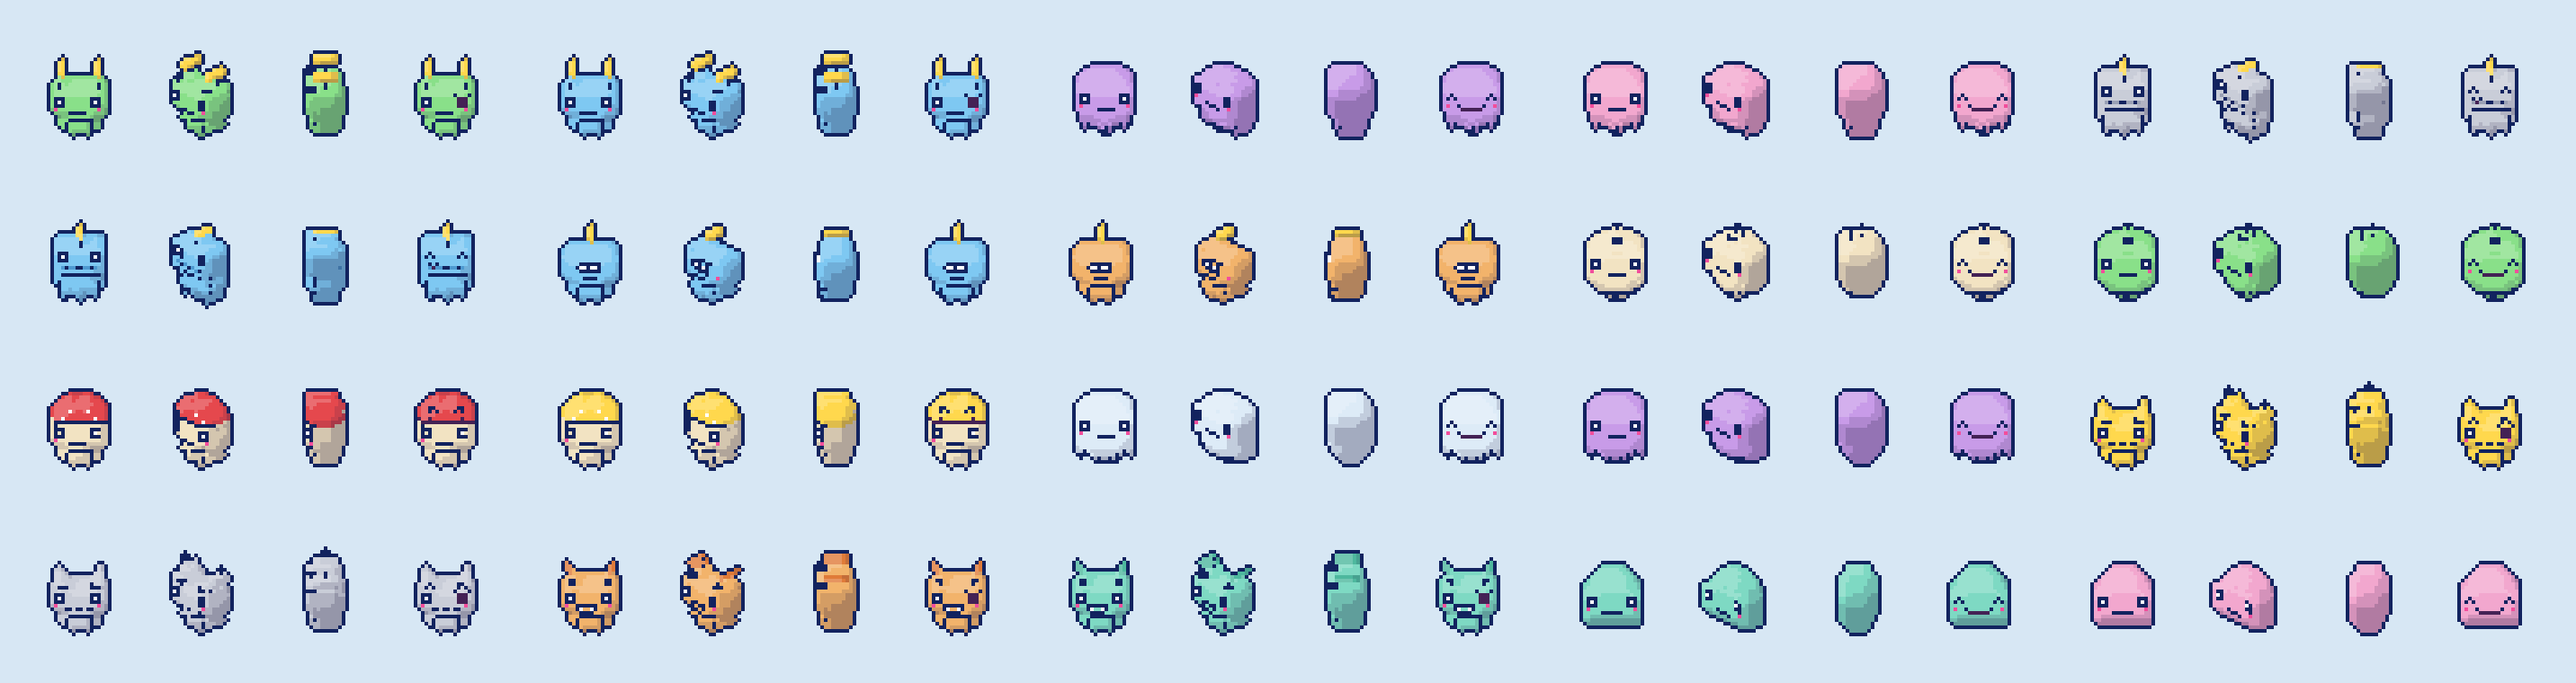
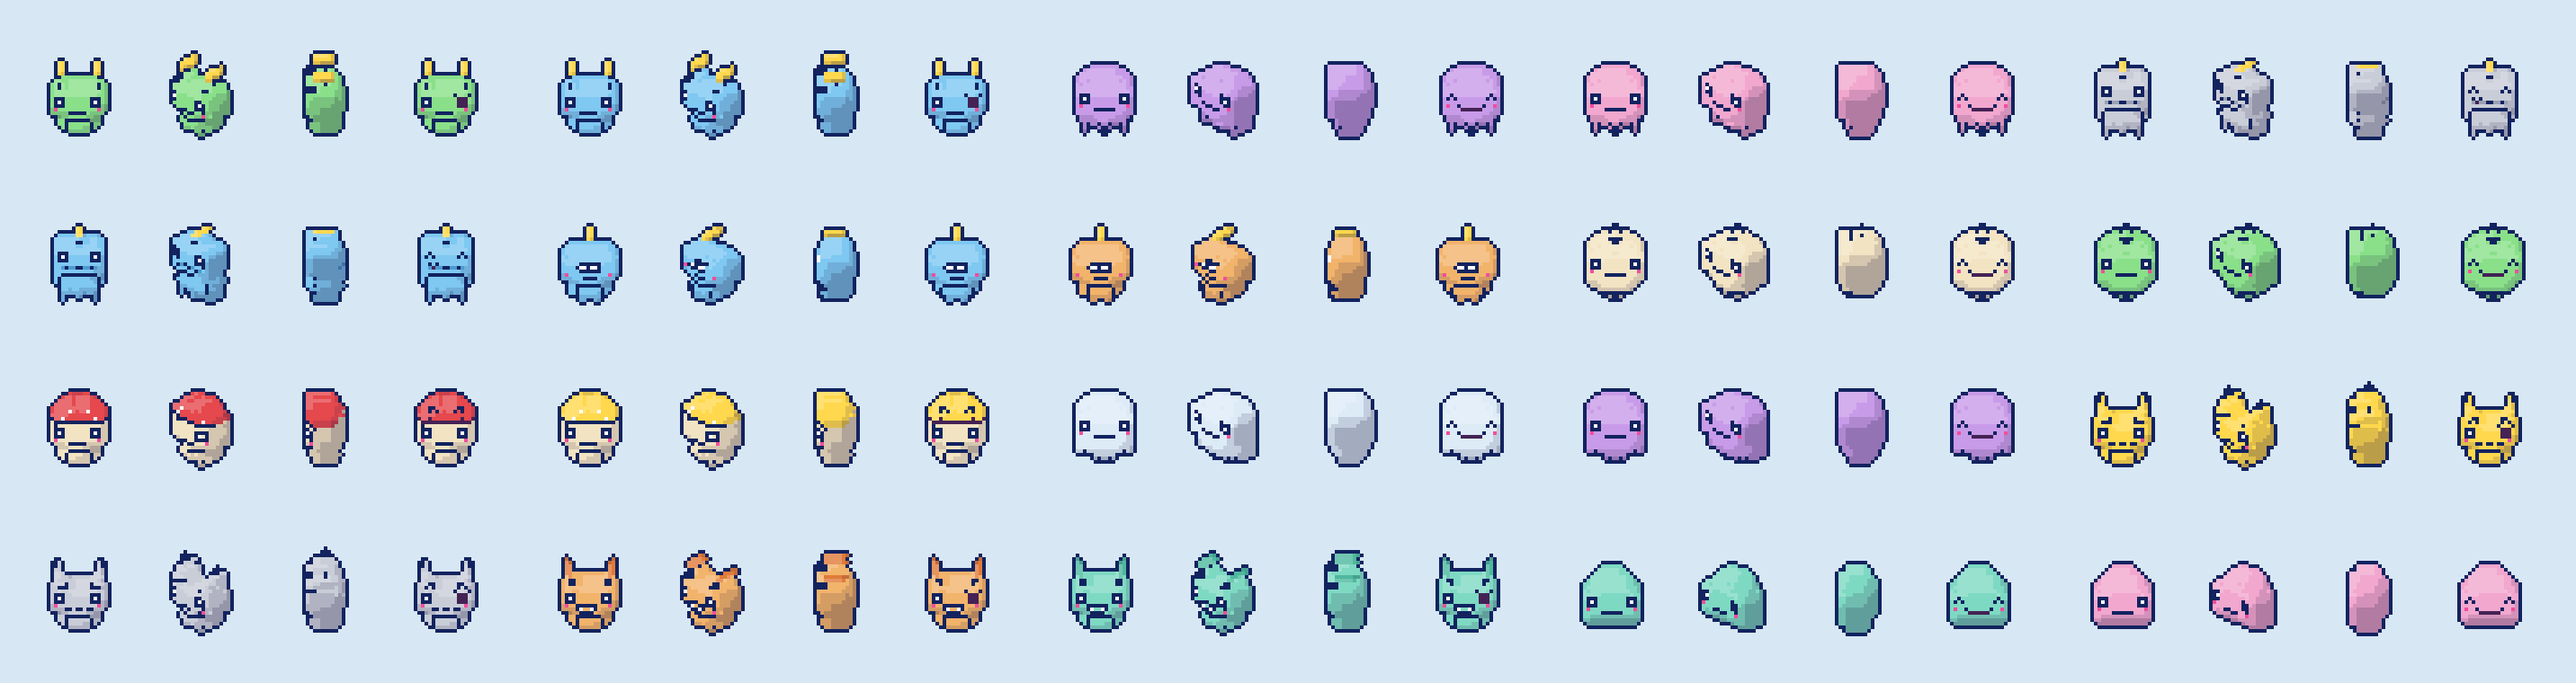
スプライトスタッキング: 正面で2ドット以上の幅の顔パーツの左の列が消えるくせを直す
回すときの出力の幅の偶奇を元の層とそろえ、正面・横で画素の中心を拾うようにした（ずれていると角を拾い、ドット補正で丸めた角に当たっていた）。
全キャラ（宇宙人・アバター・NPC）の絵が少し変わる（オーナー了承済み）。回帰テストと一覧シートの作り直しつき。

diff --git a/src/lib/stack/stack.test.ts b/src/lib/stack/stack.test.ts
@@ -109,3 +109,29 @@ describe("2Dの文字マップから起こす", () => {
     expect(v.front(5, 3)).toBeGreaterThan(v.front(2, 3));
   });
 });
+
+describe("正面の顔パーツ", () => {
+  it("2ドット幅の目が、正面で2ドットのまま出る（左の列が体の色に消えない）", () => {
+    const rows = [
+      "..kkkkkkkk..",
+      ".kyyyyyyyyk.",
+      "kyyyyyyyyyyk",
+      "kyykkyykkyyk",
+      "kyykkyykkyyk",
+      "kyyyyyyyyyyk",
+      ".kyyyyyyyyk.",
+      "..kkkkkkkk..",
+    ];
+    const v = charMapToVox(rows, { colors: { y: 1, k: 4 }, outline: "k" });
+    const m = prepareModel(v, [null, "#ffd84d", null, null, "#12235f"], { legs: false });
+    const f = renderStack(modelStack(m), { dir: 0, line: null });
+    const ink = packRgba(hexToRgb("#12235f"));
+    let best = 0;
+    for (let y = 0; y < f.h; y++) {
+      let n = 0;
+      for (let x = 0; x < f.w; x++) if (f.px[y * f.w + x] === ink) n++;
+      best = Math.max(best, n);
+    }
+    expect(best).toBe(4);
+  });
+});

diff --git a/src/lib/stack/render.ts b/src/lib/stack/render.ts
@@ -127,7 +127,9 @@ export function rotSlice(src: Uint32Array, lw: number, ld: number, ang: number, 
     sh *= 2;
   }
   const R = Math.hypot(lw, ld) / 2 + 1;
-  const W = Math.ceil(2 * R) | 1,
+  // 幅の偶奇を元の層とそろえ、正面・横（0°・90°…）で出力の画素の中心が元の画素の中心に乗るようにする。
+  // ずれていると元の画素の「角」を拾い、ドット補正で丸めた角に当たって、2ドット以上の幅の顔パーツの左の列が消える
+  const W = Math.ceil(2 * R) + ((Math.ceil(2 * R) - lw) & 1),
     H = Math.ceil(2 * R * k) | 1;
   const out = new Uint32Array(W * H);
   const cs = Math.cos(ang),
